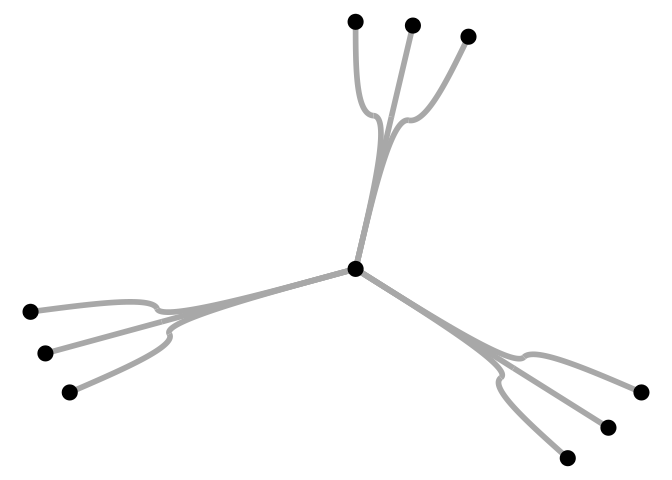
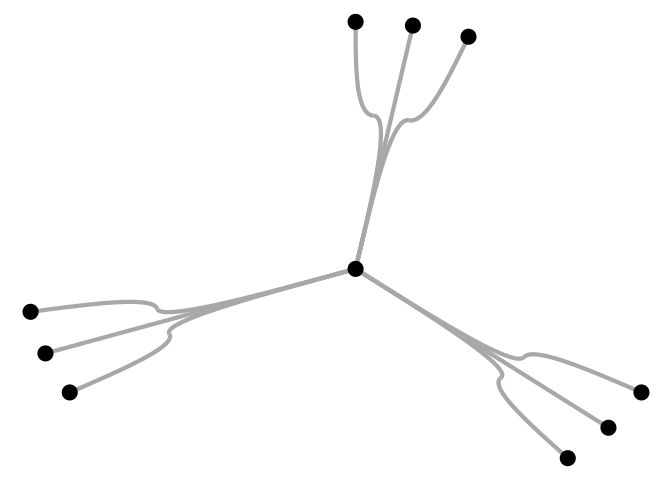
added edge path bundling to readme

diff --git a/README.md b/README.md
@@ -20,14 +20,13 @@ algorithms. So far it includes
     ([paper](https://www.uni-konstanz.de/mmsp/pubsys/publishedFiles/NoBr13.pdf))
 -   Hammer bundling ([python
     code](https://datashader.org/_modules/datashader/bundling.html))
+-   Edge-path bundling ([paper](https://arxiv.org/abs/2108.05467))
 -   TNSS flow map
     ([paper](https://www.tandfonline.com/doi/pdf/10.1080/15230406.2018.1437359?casa_token=1_AncPoEZ8QAAAAA:Qdl39_xDlQVCloneMFhI8rGUGgkzo6mkCMLUJThQfDs6-5J8FcmZXW4oTDqWNKQrbhL3hGEWbTY))
 -   Multicriteria Metro map layout
     ([paper](https://ieeexplore.ieee.org/document/5406516))
 
-(*part of this package will eventually migrate to ggraph*)
-
-The API is not very opinionated yet and may change in future releases.
+(The API is not very opinionated yet and may change in future releases.)
 
 ## Installation
 
@@ -82,39 +81,57 @@ The result can be visualized as follows.
 ``` r
 library(ggplot2)
 
-ggplot(fbundle)+
-  geom_path(aes(x,y,group=group,col=as.factor(group)),size = 2,show.legend = FALSE)+
-  geom_point(data=as.data.frame(xy),aes(V1,V2),size=5)+
+ggplot(fbundle) +
+  geom_path(aes(x, y, group = group, col = as.factor(group)), 
+            size = 2, show.legend = FALSE) +
+  geom_point(data = as.data.frame(xy), aes(V1, V2), size = 5) +
   theme_void()
 ```
 
 <img src="man/figures/README-plot-1.png" width="100%" style="display: block; margin: auto;" />
+
+``` r
+# simple edge-path bundling example
+g <- graph_from_edgelist(matrix(c(1, 2, 1, 6, 1, 4, 2, 3, 3, 4, 4, 5, 5, 6), 
+                                ncol = 2, byrow = TRUE), FALSE)
+xy <- cbind(c(0, 10, 25, 40, 50, 50), c(0, 15, 25, 15, 0, -10))
+res <- edge_bundle_path(g, xy, max_distortion = 2, weight_fac = 2, segments = 50)
+
+ggplot() +
+  geom_path(data = res, aes(x, y, group = group, col = as.factor(group)), 
+            size = 2, show.legend = FALSE) +
+  geom_point(data = as.data.frame(xy), aes(V1, V2), size = 5) +
+  scale_color_manual(values = c("grey66", "firebrick3", "firebrick3", rep("grey66", 4))) +
+  theme_void()
+```
+
+<img src="man/figures/README-plot-2.png" width="100%" style="display: block; margin: auto;" />
 
 For `edge_bundle_stub()`, you need `geom_bezier()` from the package
 {{ggforce}}.
 
 ``` r
 library(ggforce)
-g <- graph.star(10,"undirected")
+g <- graph.star(10, "undirected")
 
 xy <- matrix(c(
-  0,0,
-  cos(90*pi/180),sin(90*pi/180),
-  cos(80*pi/180),sin(80*pi/180),
-  cos(70*pi/180),sin(70*pi/180),
-  cos(330*pi/180),sin(330*pi/180),
-  cos(320*pi/180),sin(320*pi/180),
-  cos(310*pi/180),sin(310*pi/180),
-  cos(210*pi/180),sin(210*pi/180),
-  cos(200*pi/180),sin(200*pi/180),
-  cos(190*pi/180),sin(190*pi/180)
-),ncol=2,byrow=TRUE)
+  0, 0,
+  cos(90 * pi / 180), sin(90 * pi / 180),
+  cos(80 * pi / 180), sin(80 * pi / 180),
+  cos(70 * pi / 180), sin(70 * pi / 180),
+  cos(330 * pi / 180), sin(330 * pi / 180),
+  cos(320 * pi / 180), sin(320 * pi / 180),
+  cos(310 * pi / 180), sin(310 * pi / 180),
+  cos(210 * pi / 180), sin(210 * pi / 180),
+  cos(200 * pi / 180), sin(200 * pi / 180),
+  cos(190 * pi / 180), sin(190 * pi / 180)
+), ncol = 2, byrow = TRUE)
 
-sbundle <- edge_bundle_stub(g,xy,beta = 90)
+sbundle <- edge_bundle_stub(g, xy, beta = 90)
 
-ggplot(sbundle)+
-  geom_bezier(aes(x,y,group=group),size=2,col="grey66")+
-  geom_point(data=as.data.frame(xy),aes(V1,V2),size=5)+
+ggplot(sbundle) +
+  geom_bezier(aes(x, y, group = group), size = 1.5, col = "grey66") +
+  geom_point(data = as.data.frame(xy), aes(V1, V2), size = 5) +
   theme_void()
 ```
 
@@ -125,68 +142,98 @@ is included in the package.
 
 ``` r
 g <- us_flights
-xy <- cbind(V(g)$longitude,V(g)$latitude)
-verts <- data.frame(x=V(g)$longitude,y=V(g)$latitude)
+xy <- cbind(V(g)$longitude, V(g)$latitude)
+verts <- data.frame(x = V(g)$longitude, y = V(g)$latitude)
 
-fbundle <- edge_bundle_force(g,xy,compatibility_threshold = 0.6)
-sbundle <- edge_bundle_stub(g,xy)
-hbundle <- edge_bundle_hammer(g,xy,bw = 0.7,decay = 0.5)
-pbundle <- edge_bundle_path(g,xy,max_distortion = 12,weight_fac = 2,segments = 50)
+fbundle <- edge_bundle_force(g, xy, compatibility_threshold = 0.6)
+sbundle <- edge_bundle_stub(g, xy)
+hbundle <- edge_bundle_hammer(g, xy, bw = 0.7, decay = 0.5)
+pbundle <- edge_bundle_path(g, xy, max_distortion = 12, weight_fac = 2, segments = 50)
 
 states <- map_data("state")
 
 
-p1 <- ggplot()+
-  geom_polygon(data=states,aes(long,lat,group=group),col="white",size=0.1,fill=NA)+
-  geom_path(data = fbundle,aes(x,y,group=group),col="#9d0191",size=0.05)+
-  geom_path(data = fbundle,aes(x,y,group=group),col="white",size=0.005)+
-  geom_point(data = verts,aes(x,y),col="#9d0191",size=0.25)+
-  geom_point(data = verts,aes(x,y),col="white",size=0.25,alpha=0.5)+
-  geom_point(data=verts[verts$name!="",],aes(x,y), col="white", size=3,alpha=1)+
-  labs(title="Force Directed Edge Bundling")+
-  ggraph::theme_graph(background = "black")+
-  theme(plot.title = element_text(color="white"))
+p1 <- ggplot() +
+  geom_polygon(data = states, aes(long, lat, group = group), 
+               col = "white", size = 0.1, fill = NA) +
+  geom_path(data = fbundle, aes(x, y, group = group), 
+            col = "#9d0191", size = 0.05) +
+  geom_path(data = fbundle, aes(x, y, group = group), 
+            col = "white", size = 0.005) +
+  geom_point(data = verts, aes(x, y), 
+             col = "#9d0191", size = 0.25) +
+  geom_point(data = verts, aes(x, y), 
+             col = "white", size = 0.25, alpha = 0.5) +
+  geom_point(data = verts[verts$name != "", ], 
+             aes(x, y), col = "white", size = 3, alpha = 1) +
+  labs(title = "Force Directed Edge Bundling") +
+  ggraph::theme_graph(background = "black") +
+  theme(plot.title = element_text(color = "white"))
 
-p2 <- ggplot()+
-  geom_polygon(data=states,aes(long,lat,group=group),col="white",size=0.1,fill=NA)+
-  geom_path(data = hbundle,aes(x,y,group=group),col="#9d0191",size=0.05)+
-  geom_path(data = hbundle,aes(x,y,group=group),col="white",size=0.005)+
-  geom_point(data = verts,aes(x,y),col="#9d0191",size=0.25)+
-  geom_point(data = verts,aes(x,y),col="white",size=0.25,alpha=0.5)+
-  geom_point(data=verts[verts$name!="",],aes(x,y), col="white", size=3,alpha=1)+
-  labs(title="Hammer Edge Bundling")+
-  ggraph::theme_graph(background = "black")+
-  theme(plot.title = element_text(color="white"))
+p2 <- ggplot() +
+  geom_polygon(data = states, aes(long, lat, group = group), 
+               col = "white", size = 0.1, fill = NA) +
+  geom_path(data = hbundle, aes(x, y, group = group), 
+            col = "#9d0191", size = 0.05) +
+  geom_path(data = hbundle, aes(x, y, group = group), 
+            col = "white", size = 0.005) +
+  geom_point(data = verts, aes(x, y), 
+             col = "#9d0191", size = 0.25) +
+  geom_point(data = verts, aes(x, y), 
+             col = "white", size = 0.25, alpha = 0.5) +
+  geom_point(data = verts[verts$name != "", ], aes(x, y), 
+             col = "white", size = 3, alpha = 1) +
+  labs(title = "Hammer Edge Bundling") +
+  ggraph::theme_graph(background = "black") +
+  theme(plot.title = element_text(color = "white"))
 
-alpha_fct <- function(x,b=0.01,p=5,n=20){
-  (1-b)*(2/(n-1))^p * abs(x-(n-1)/2)^p+b
+alpha_fct <- function(x, b = 0.01, p = 5, n = 20) {
+  (1 - b) * (2 / (n - 1))^p * abs(x - (n - 1) / 2)^p + b
 }
 
-p3 <- ggplot()+
-  geom_polygon(data=states,aes(long,lat,group=group),col="white",size=0.1,fill=NA)+
-  ggforce::geom_bezier(data = sbundle,aes(x,y,group=group,
-                                          alpha=alpha_fct(..index..*20)),n=20,
-                       col="#9d0191",size=0.1,show.legend = FALSE)+
-  ggforce::geom_bezier(data = sbundle,aes(x,y,group=group,
-                                          alpha=alpha_fct(..index..*20)),n=20,
-                       col="white",size=0.01,show.legend = FALSE)+
-  geom_point(data = verts,aes(x,y),col="#9d0191",size=0.25)+
-  geom_point(data = verts,aes(x,y),col="white",size=0.25,alpha=0.5)+
-  geom_point(data=verts[verts$name!="",],aes(x,y), col="white", size=3,alpha=1)+
-  labs(title="Stub Edge Bundling")+
-  ggraph::theme_graph(background = "black")+
-  theme(plot.title = element_text(color="white"))
+p3 <- ggplot() +
+  geom_polygon(data = states, aes(long, lat, group = group), 
+               col = "white", size = 0.1, fill = NA) +
+  ggforce::geom_bezier(
+    data = sbundle, aes(x, y,
+      group = group,
+      alpha = alpha_fct(..index.. * 20)
+    ), n = 20,
+    col = "#9d0191", size = 0.1, show.legend = FALSE
+  ) +
+  ggforce::geom_bezier(
+    data = sbundle, aes(x, y,
+      group = group,
+      alpha = alpha_fct(..index.. * 20)
+    ), n = 20,
+    col = "white", size = 0.01, show.legend = FALSE
+  ) +
+  geom_point(data = verts, aes(x, y), 
+             col = "#9d0191", size = 0.25) +
+  geom_point(data = verts, aes(x, y), 
+             col = "white", size = 0.25, alpha = 0.5) +
+  geom_point(data = verts[verts$name != "", ], aes(x, y), 
+             col = "white", size = 3, alpha = 1) +
+  labs(title = "Stub Edge Bundling") +
+  ggraph::theme_graph(background = "black") +
+  theme(plot.title = element_text(color = "white"))
 
-p4 <- ggplot()+
-  geom_polygon(data=states,aes(long,lat,group=group),col="white",size=0.1,fill=NA)+
-  geom_path(data = pbundle,aes(x,y,group=group),col="#9d0191",size=0.05)+
-  geom_path(data = pbundle,aes(x,y,group=group),col="white",size=0.005)+
-  geom_point(data = verts,aes(x,y),col="#9d0191",size=0.25)+
-  geom_point(data = verts,aes(x,y),col="white",size=0.25,alpha=0.5)+
-  geom_point(data=verts[verts$name!="",],aes(x,y), col="white", size=3,alpha=1)+
-  labs(title="Edge-Path Bundling")+
-  ggraph::theme_graph(background = "black")+
-  theme(plot.title = element_text(color="white"))
+p4 <- ggplot() +
+  geom_polygon(data = states, aes(long, lat, group = group), 
+               col = "white", size = 0.1, fill = NA) +
+  geom_path(data = pbundle, aes(x, y, group = group), 
+            col = "#9d0191", size = 0.05) +
+  geom_path(data = pbundle, aes(x, y, group = group), 
+            col = "white", size = 0.005) +
+  geom_point(data = verts, aes(x, y), 
+             col = "#9d0191", size = 0.25) +
+  geom_point(data = verts, aes(x, y), 
+             col = "white", size = 0.25, alpha = 0.5) +
+  geom_point(data = verts[verts$name != "", ], aes(x, y), 
+             col = "white", size = 3, alpha = 1) +
+  labs(title = "Edge-Path Bundling") +
+  ggraph::theme_graph(background = "black") +
+  theme(plot.title = element_text(color = "white"))
 
 p1
 p2
